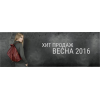
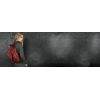
admin part ready articles ava

diff --git a/admin/model/extension/articles.php b/admin/model/extension/articles.php
@@ -1,7 +1,7 @@
 <?php
 class ModelExtensionArticles extends Model {
 	public function addArticles($data) {
-		$this->db->query("INSERT INTO " . DB_PREFIX . "articles SET image = '" . $this->db->escape($data['image']) . "', date_added = NOW(), status = '" . (int)$data['status'] . "'");
+		$this->db->query("INSERT INTO " . DB_PREFIX . "articles SET image = '" . $this->db->escape($data['image']) . "', ava = '" . $this->db->escape($data['ava']) . "', date_added = NOW(), status = '" . (int)$data['status'] . "'");
 		
 		$articles_id = $this->db->getLastId();
 		
@@ -15,7 +15,7 @@ class ModelExtensionArticles extends Model {
 	}
 	
 	public function editArticles($articles_id, $data) {
-		$this->db->query("UPDATE " . DB_PREFIX . "articles SET image = '" . $this->db->escape($data['image']) . "', status = '" . (int)$data['status'] . "' WHERE articles_id = '" . (int)$articles_id . "'");
+		$this->db->query("UPDATE " . DB_PREFIX . "articles SET image = '" . $this->db->escape($data['image']) . "', ava = '" . $this->db->escape($data['ava']) . "', status = '" . (int)$data['status'] . "' WHERE articles_id = '" . (int)$articles_id . "'");
 		
 		$this->db->query("DELETE FROM " . DB_PREFIX . "articles_description WHERE articles_id = '" . (int)$articles_id. "'");
 		

diff --git a/admin/controller/extension/articles.php b/admin/controller/extension/articles.php
@@ -226,6 +226,16 @@ class ControllerExtensionArticles extends Controller {
 		} else {
 			$data['image'] = '';
 		}
+        //article ava
+        if (isset($this->request->post['ava'])) {
+			$data['ava'] = $this->request->post['ava'];
+		} elseif (!empty($articles)) {
+			$data['ava'] = $articles['ava'];
+		} else {
+			$data['ava'] = '';
+		}
+        //
+        
 		
 		$this->load->model('tool/image');
 		
@@ -236,6 +246,16 @@ class ControllerExtensionArticles extends Controller {
 		} else {
 			$data['thumb'] = $this->model_tool_image->resize('no_image.png', 100, 100);;
 		}
+        
+        //articles ava thumb
+        if (isset($this->request->post['ava'])) {
+			$data['thumbava'] = $this->model_tool_image->resize($this->request->post['ava'], 100, 100);
+		} elseif (!empty($articles)) {
+			$data['thumbava'] = $this->model_tool_image->resize($articles['ava'] ? $articles['ava'] : 'no_image.png', 100, 100);
+		} else {
+			$data['thumbava'] = $this->model_tool_image->resize('no_image.png', 100, 100);;
+		}
+        //
 		
 		$data['no_image'] = $this->model_tool_image->resize('no_image.png', 100, 100);
 		
